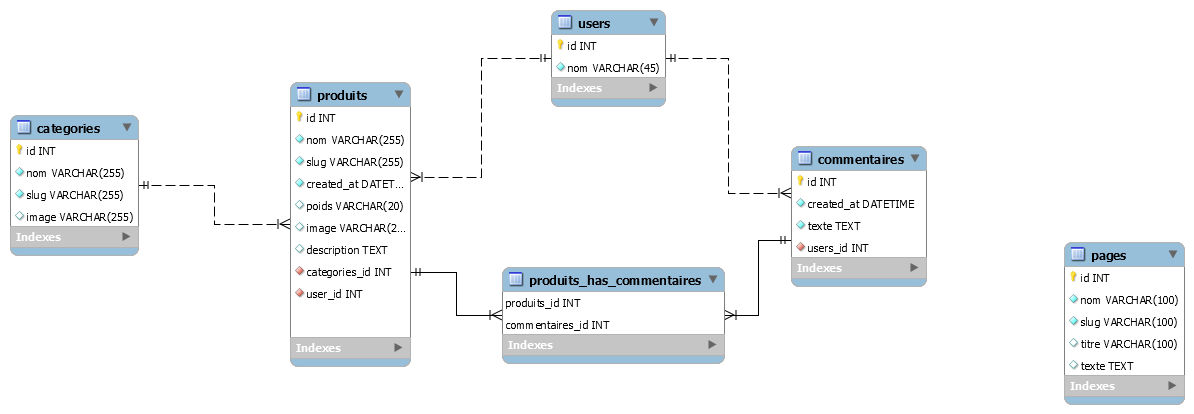
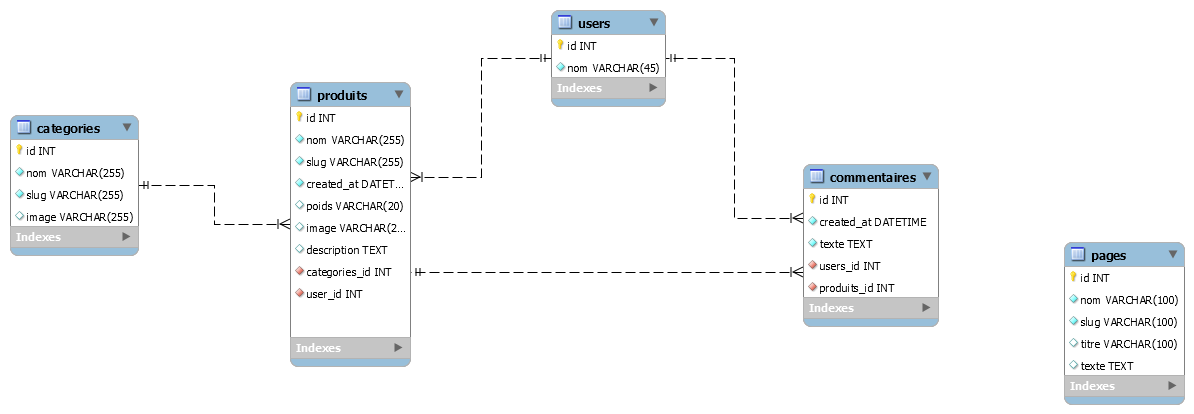
Modification de la DB et adaptation de l'api
Modification d'une relation dans la db et modification de Models/Produit.php pour adapter le modele à la nouvelle db

Changed region(s): [[0.6508, 0.3478, 0.8057, 0.8116], [0.4028, 0.6377, 0.6198, 0.8986]]

diff --git a/resources/js/components/produits/show.vue b/resources/js/components/produits/show.vue
@@ -66,8 +66,8 @@
 
     <h1 class="logo-accueil">burstfly</h1>
 
-  </main>
-              
+  </main>      
+       
 </template>
 
 <script>

diff --git a/app/Http/Models/Produit.php b/app/Http/Models/Produit.php
@@ -22,8 +22,7 @@ class Produit extends Model {
     }
 
     public function commentaires() {
-        return $this->belongsToMany('App\Http\Models\Commentaire', 'produits_has_commentaires', 'produits_id', 'commentaires_id');
+        return $this->hasMany('App\Http\Models\Commentaire', 'produits_id');
     }
-
 
 }

diff --git a/routes/api.php b/routes/api.php
@@ -29,6 +29,7 @@ Route::middleware('auth:api')->get('/user', function (Request $request) {
     // Index Start
     Route::get('produits', 'ProduitsController@index')->name('produits.index');
     
+    
 // Route des categories
 
     // Index

diff --git a/app/Http/Models/Commentaire.php b/app/Http/Models/Commentaire.php
@@ -16,4 +16,5 @@ class Commentaire extends Model {
     public function user() {
         return $this->hasOne('App\Http\Models\User', 'id', 'users_id');
     }
+    
 }

diff --git a/app/Http/Controllers/ProduitsController.php b/app/Http/Controllers/ProduitsController.php
@@ -21,4 +21,5 @@ class ProduitsController extends Controller {
         return response()->json($produits);
     }
 
+
 }
